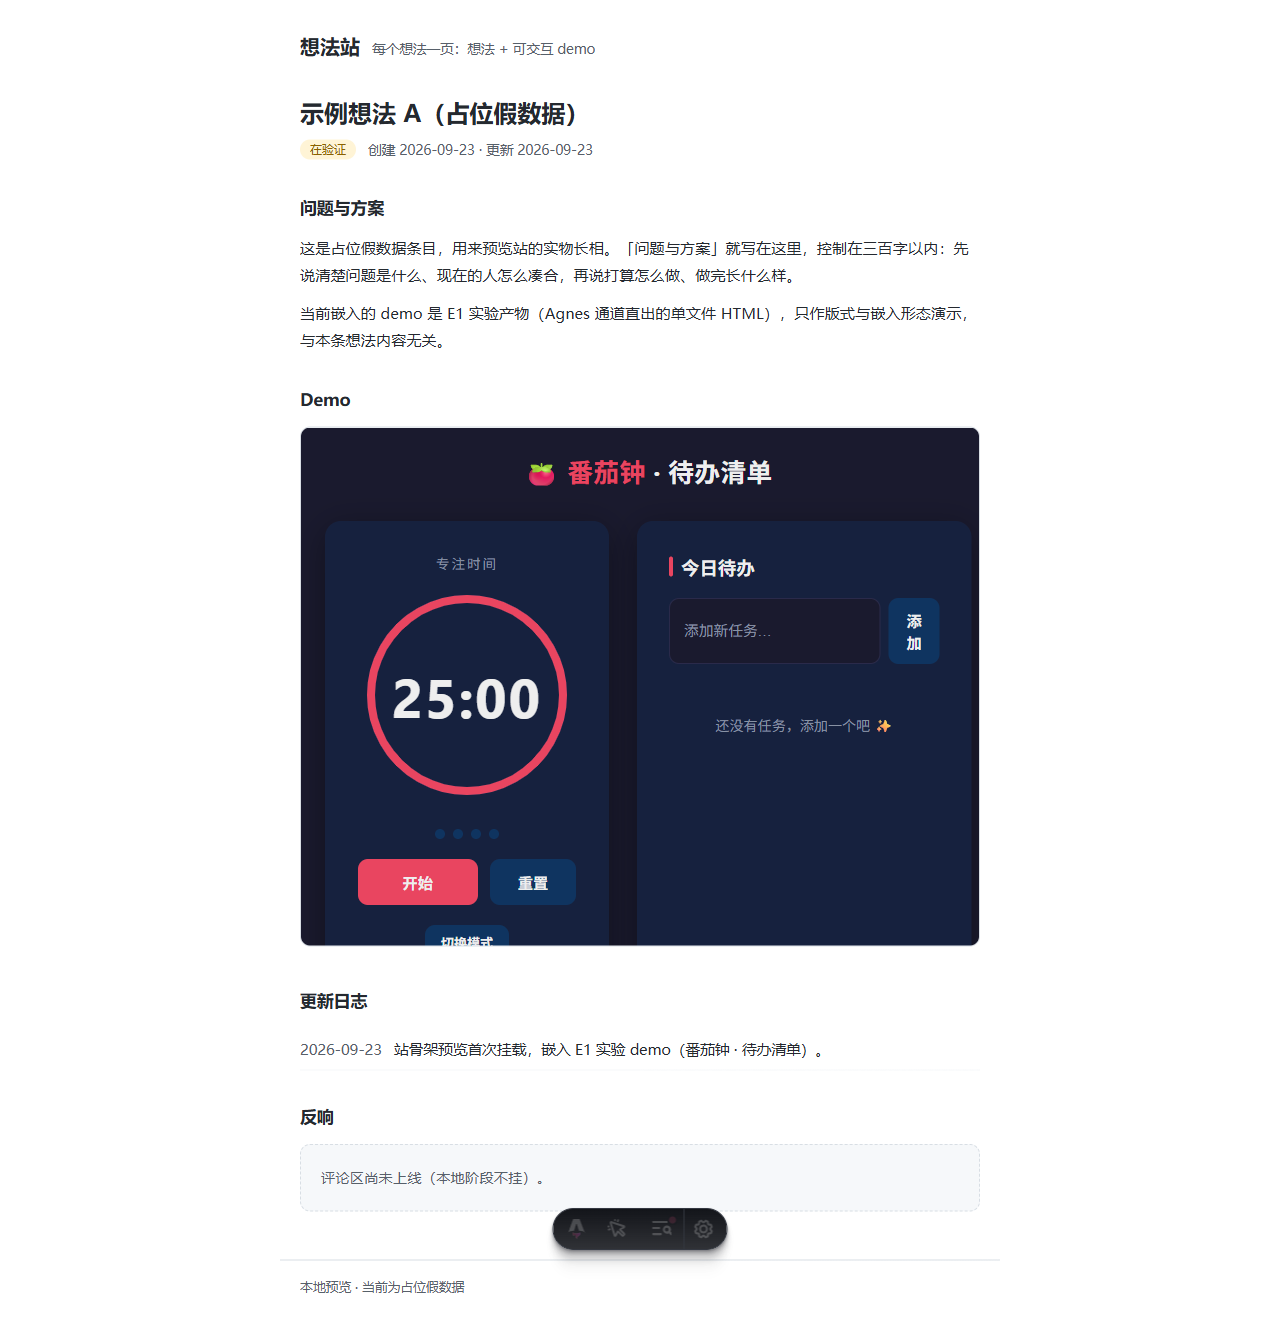
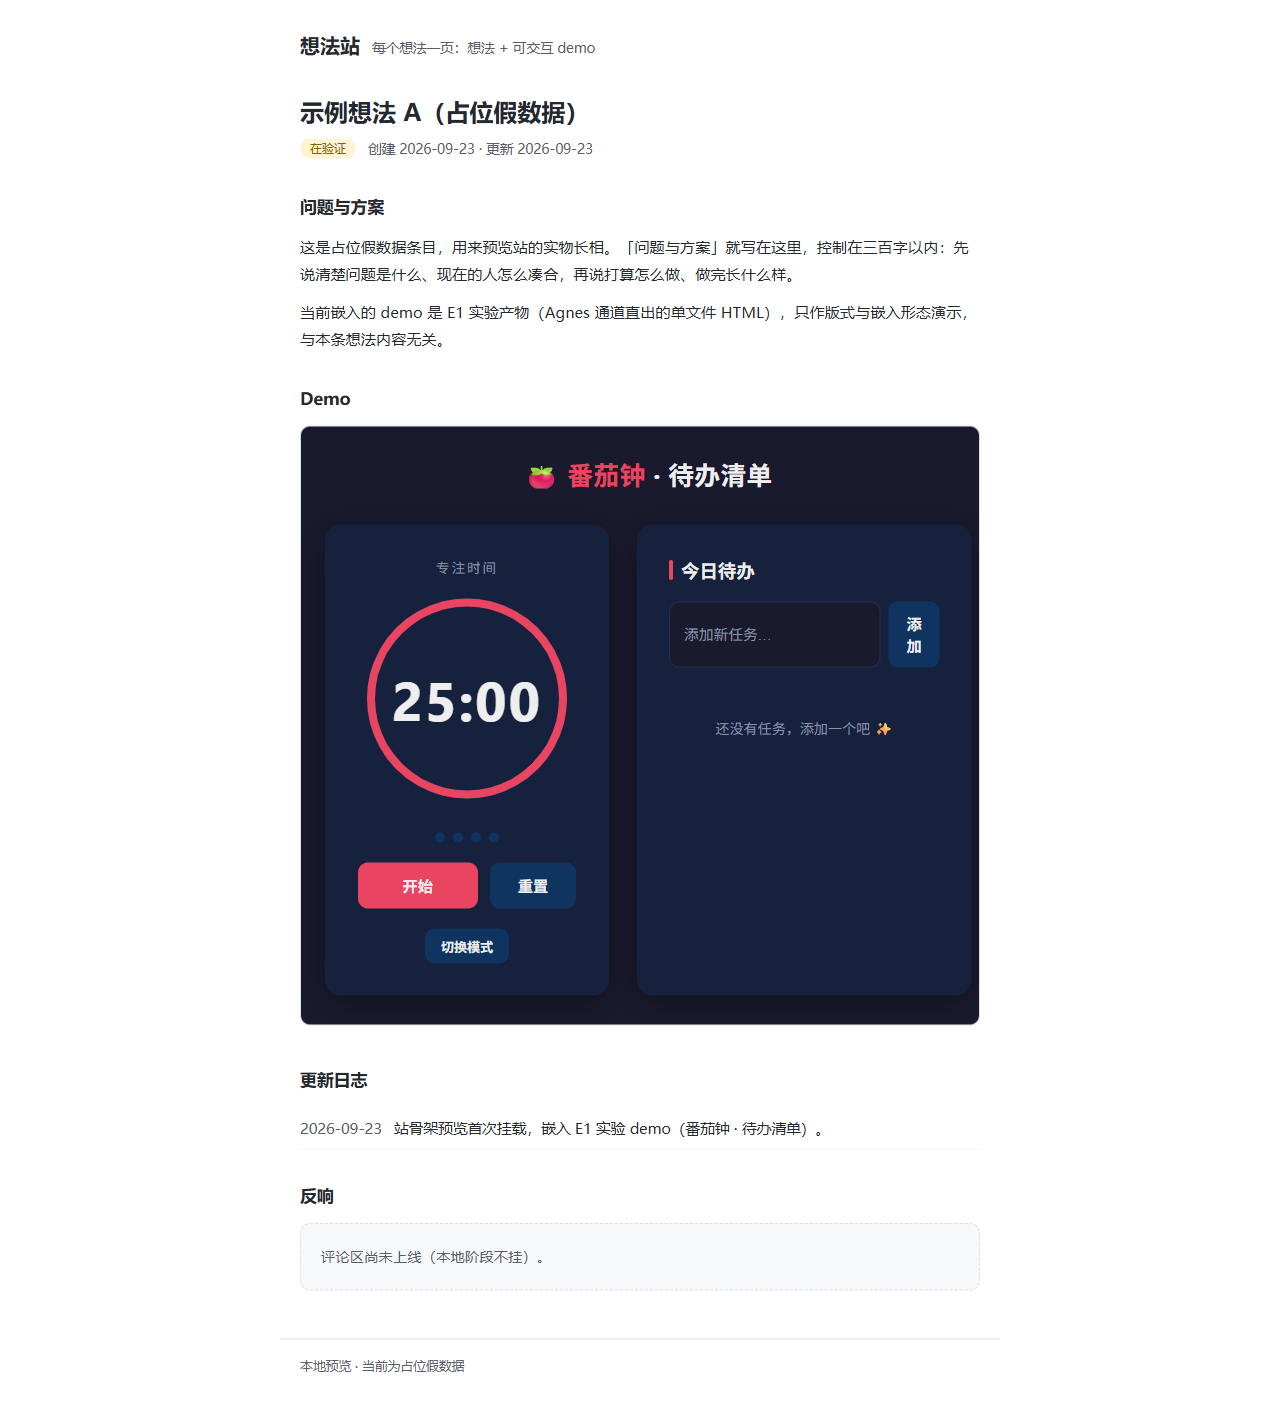
fix: 预览收尾——iframe 定高适配 E1 demo+构建命令回填+spec v1.1 对账 [build]

diff --git a/CLAUDE.md b/CLAUDE.md
@@ -56,7 +56,8 @@
 ## 构建命令
 
 - 实验脚本：`python research/experiments/<实验名>/<脚本>.py`（系统 python 或 `d:/project/vedio/.venv/Scripts/python.exe` 皆可）；key 从 `.env` export 后再跑：`set -a; source .env; set +a`。
-- 站构建命令：待 Astro 脚手架后补。
+- 站构建命令：`npm install`（首次）；`npm run dev`（本地站 http://localhost:4321，4 页见 docs/spec-site.md §3）；`npm run build`（静态产物）。
+- demo 生成脚本 `scripts/gen_demo.py` 待从 `e1_gen.py` 提炼（spec §5）。
 
 <!-- pl-status-contract@0.16.0 正本: ~/.claude/skills/project-lifecycle/templates/status-contract.md（vintage 锚，manager sediment-audit 对账用；本地适配在下一行可选注记） -->
 

diff --git a/docs/dispatches.md b/docs/dispatches.md
@@ -17,3 +17,4 @@
 | 2026-09-23 | fix:audit-debt | 审计清偿——血统 rev 治本+回填、glm52 血统指向、footer 位置立法 | — | — | 完成（本行所属提交） | — |
 | 2026-09-23 | docs:product-card | 一页纸产品卡——premise-audit+spec 提炼(2fcc 遗留2) | — | — | 完成（本行所属提交） | — |
 | 2026-09-23 | scaffold:site-preview | 站骨架提前——Astro minimal+4页+假数据+E1 demo 实嵌+截图 | — | — | 完成（本行所属提交） | — |
+| 2026-09-23 | fix:preview-polish | iframe 定高适配+构建命令回填+spec v1.1 对账 | — | — | 完成（本行所属提交） | — |
